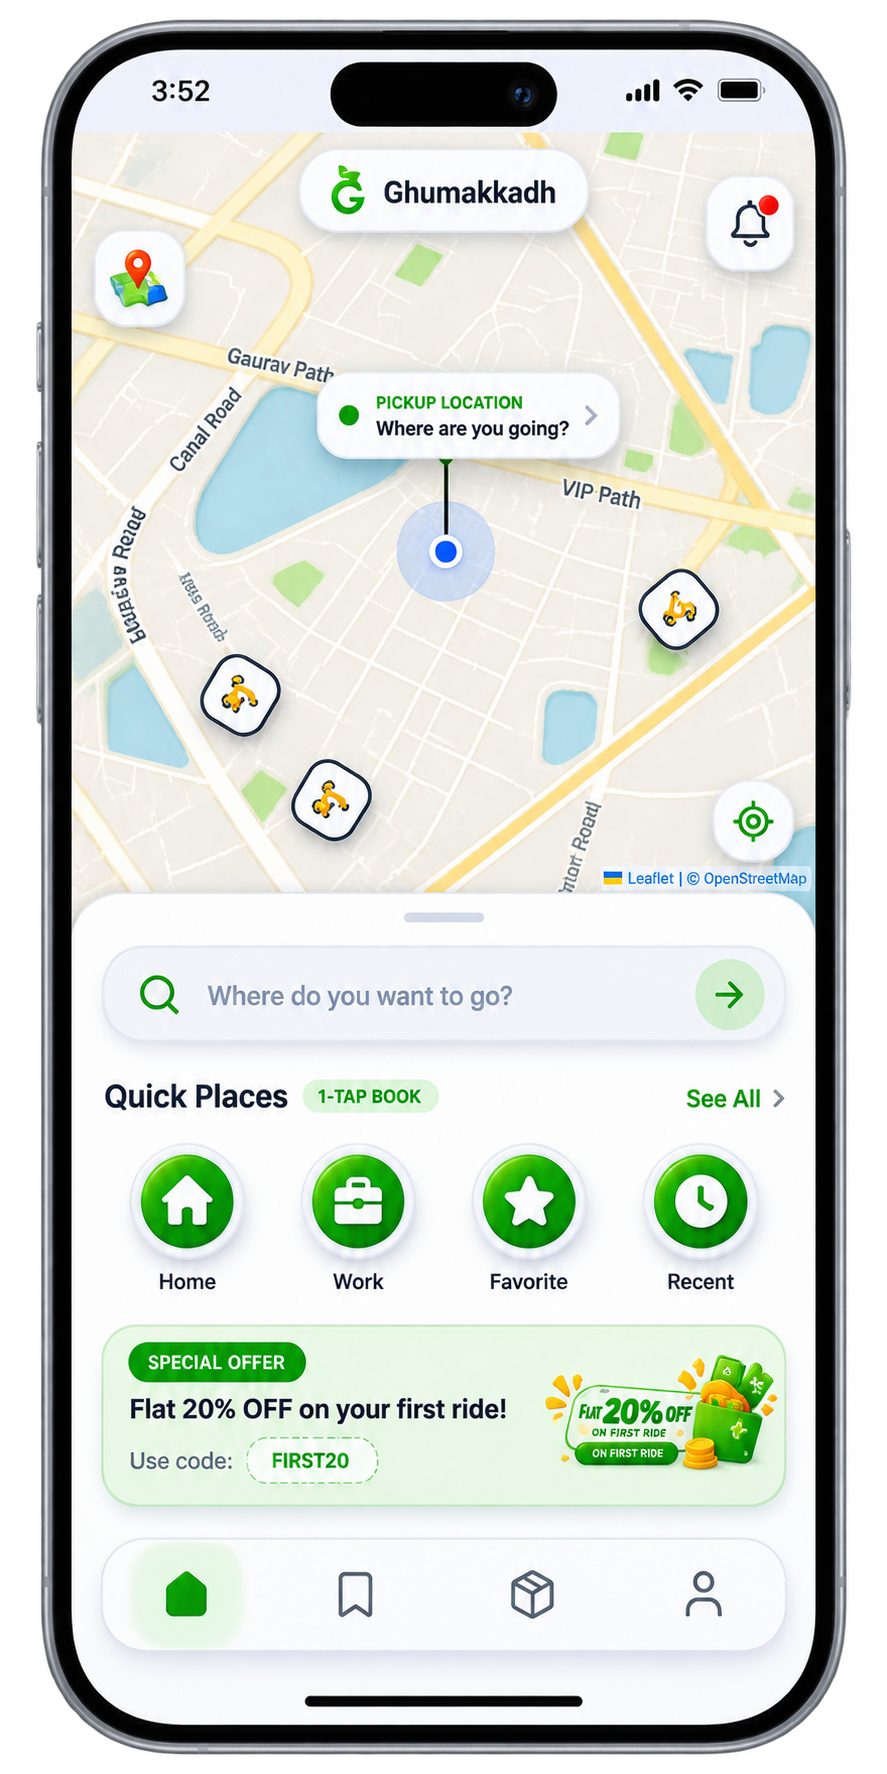
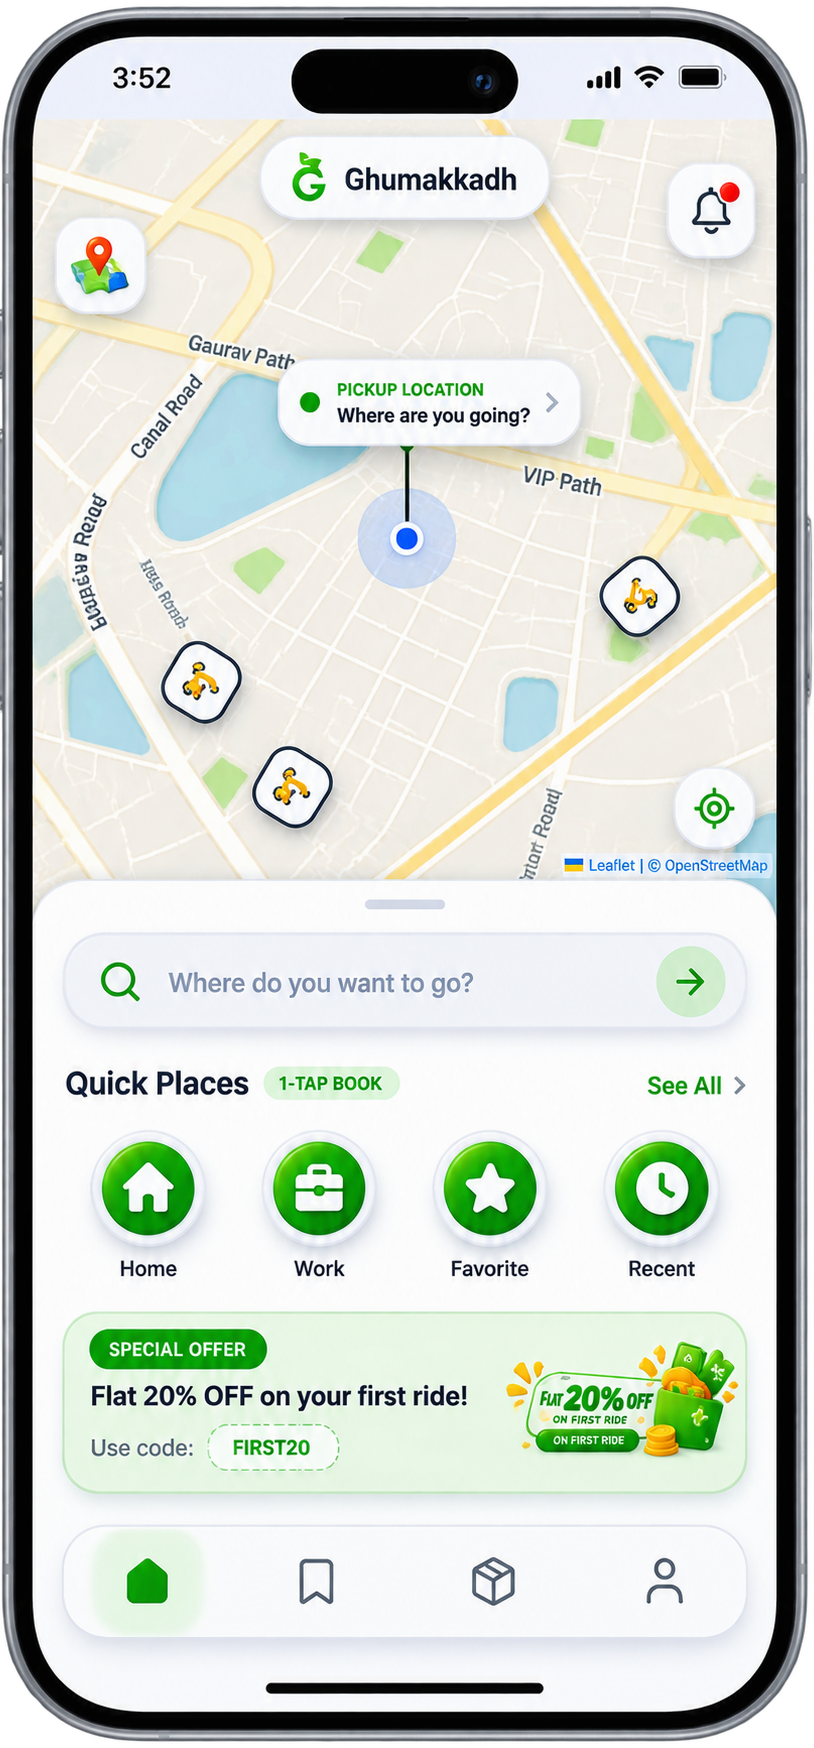
feat: add products page, product components, and dynamic product details routes

diff --git a/src/components/landing/Product.tsx b/src/components/landing/Product.tsx
@@ -571,6 +571,91 @@ export function ProductSection() {
             </div>
             <HoverOverlay href="https://play.google.com/store/apps/details?id=com.miracal" />
           </motion.div>
+
+          {/* Card 13: TruckBharat Mobile App */}
+          <motion.div
+            initial={{ opacity: 0, y: 20 }}
+            whileInView={{ opacity: 1, y: 0 }}
+            viewport={{ once: true }}
+            transition={{ delay: 0.4 }}
+            className="lg:col-span-1 relative bg-white dark:bg-zinc-900/90 border border-zinc-200/60 dark:border-white/10 rounded-[2rem] p-6 sm:p-8 pb-0 sm:pb-0 flex flex-col overflow-hidden group hover:shadow-xl transition-all duration-500"
+          >
+            <div className="flex flex-wrap justify-between items-center mb-6 sm:mb-8 relative z-10 gap-4">
+              <div className="flex items-center gap-4">
+                <Image src="/truckbharat_logo.png" alt="TruckBharat Logo" width={48} height={48} className="w-12 h-12 object-contain rounded-xl" />
+                <span className="font-bold text-zinc-800 dark:text-zinc-100 text-3xl sm:text-4xl tracking-tight">TruckBharat</span>
+              </div>
+              <a
+                href="https://play.google.com/store/apps/details?id=com.truckbharat"
+                target="_blank"
+                rel="noopener noreferrer"
+                className="flex items-center gap-1 text-zinc-500 dark:text-zinc-400 font-medium text-sm group-hover:text-zinc-900 dark:group-hover:text-white transition-colors cursor-pointer"
+              >
+                Logistics & Freight <ArrowUpRight className="w-4 h-4" />
+              </a>
+            </div>
+
+            {/* Mobile Mockup */}
+            <div className="relative flex justify-center pt-2 pb-2 px-4 mt-0 sm:mt-1">
+              <div className="relative w-[85%] max-w-[320px] flex justify-center group-hover:-translate-y-4 max-lg:group-data-[in-view=true]:-translate-y-4 transition-transform duration-500">
+                <Image
+                  src="/truckbharat_phone.png"
+                  alt="TruckBharat Driver & Shipper App"
+                  width={400}
+                  height={800}
+                  className="w-full h-auto object-contain drop-shadow-2xl rounded-3xl"
+                  unoptimized
+                />
+              </div>
+            </div>
+            <HoverOverlay href="https://play.google.com/store/apps/details?id=com.truckbharat" />
+          </motion.div>
+
+          {/* Card 14: TruckBharat Digital Freight Marketplace */}
+          <motion.div
+            initial={{ opacity: 0, y: 20 }}
+            whileInView={{ opacity: 1, y: 0 }}
+            viewport={{ once: true }}
+            transition={{ delay: 0.5 }}
+            className="lg:col-span-2 relative bg-white dark:bg-zinc-900/90 border border-zinc-200/60 dark:border-white/10 rounded-[2rem] p-6 sm:p-8 flex flex-col justify-between overflow-hidden group hover:shadow-xl transition-all duration-500"
+          >
+            <div className="flex flex-wrap justify-between items-center mb-8 relative z-10 gap-4">
+              <div className="flex items-center gap-4">
+                <Image src="/truckbharat_logo.png" alt="TruckBharat Logo" width={48} height={48} className="w-12 h-12 object-contain rounded-xl" />
+                <span className="font-bold text-zinc-800 dark:text-zinc-100 text-3xl sm:text-4xl tracking-tight">TruckBharat</span>
+              </div>
+              <a
+                href="https://truckbharat.hindustaan.tech/"
+                target="_blank"
+                rel="noopener noreferrer"
+                className="flex items-center gap-1 text-zinc-500 dark:text-zinc-400 font-medium text-sm group-hover:text-zinc-900 dark:group-hover:text-white transition-colors cursor-pointer"
+              >
+                Digital Freight Platform <ArrowUpRight className="w-4 h-4" />
+              </a>
+            </div>
+
+            {/* Showcase Banner Graphic */}
+            <div className="relative flex w-full rounded-2xl bg-zinc-100 dark:bg-zinc-800 border border-zinc-200 dark:border-zinc-700 overflow-hidden shadow-lg group-hover:-translate-y-2 max-lg:group-data-[in-view=true]:-translate-y-2 transition-transform duration-500 flex-col">
+              {/* Browser/Window Top Bar */}
+              <div className="h-6 bg-zinc-200/50 dark:bg-zinc-800 flex items-center px-3 gap-1.5 border-b border-zinc-200 dark:border-zinc-700 shrink-0">
+                <div className="w-2.5 h-2.5 rounded-full bg-[#ff5f56]"></div>
+                <div className="w-2.5 h-2.5 rounded-full bg-[#ffbd2e]"></div>
+                <div className="w-2.5 h-2.5 rounded-full bg-[#27c93f]"></div>
+              </div>
+              {/* Banner Area */}
+              <div className="bg-white dark:bg-zinc-900 relative w-full flex">
+                <Image
+                  src="/truckbharat.png"
+                  alt="TruckBharat Digital Freight Platform"
+                  width={1200}
+                  height={600}
+                  className="w-full h-auto object-cover object-top"
+                  unoptimized
+                />
+              </div>
+            </div>
+            <HoverOverlay href="https://play.google.com/store/apps/details?id=com.truckbharat" />
+          </motion.div>
         </div>
       </div>
     </section>

diff --git a/src/app/products/[id]/page.tsx b/src/app/products/[id]/page.tsx
@@ -28,7 +28,9 @@ import {
   Map,
   Navigation,
   Search,
-  MapPin
+  MapPin,
+  Truck,
+  Languages
 } from "lucide-react";
 import Image from "next/image";
 import Link from "next/link";
@@ -59,7 +61,9 @@ const iconMap: Record<string, any> = {
   Map,
   Navigation,
   Search,
-  MapPin
+  MapPin,
+  Truck,
+  Languages
 };
 
 const fadeUp: Variants = {
@@ -133,7 +137,7 @@ export default function SolutionDetailPage({ params }: { params: Promise<{ id: s
             </motion.p>
 
             <motion.div variants={fadeUp} className="flex flex-wrap gap-4 mt-2">
-              {solution.projectUrl && (
+              {solution.projectUrl && solution.projectUrl !== "#" && (
                 <Link
                   href={solution.projectUrl}
                   target="_blank"
@@ -155,7 +159,7 @@ export default function SolutionDetailPage({ params }: { params: Promise<{ id: s
                   <svg className="w-4 h-4" viewBox="0 0 512 512" fill="currentColor">
                     <path d="M325.3 234.3L104.6 13l280.8 161.2-60.1 60.1zM47 0C34 6.8 25.3 19.2 25.3 35.3v441.3c0 16.1 8.7 28.5 21.7 35.3l256.6-256L47 0zm425.2 225.6l-58.9-34.1-65.7 64.5 65.7 64.5 60.1-34.1c18-14.3 18-46.5-1.2-60.8zM104.6 499l280.8-161.2-60.1-60.1L104.6 499z" />
                   </svg>
-                  <span>{solution.title}</span>
+                  <span>Google Play</span>
                   <ExternalLink className="w-4 h-4 group-hover:translate-x-0.5 group-hover:-translate-y-0.5 transition-transform" />
                 </Link>
               )}

diff --git a/src/app/products/page.tsx b/src/app/products/page.tsx
@@ -138,8 +138,12 @@ export default function SolutionsPage() {
                     className="object-contain transition-transform duration-700 p-6 group-hover:scale-105"
                   />
                   <div className="absolute bottom-4 left-4 z-20">
-                    <div className="p-2.5 bg-white dark:bg-zinc-800 border border-zinc-200 dark:border-zinc-700 shadow-xs rounded-xl">
-                      <School className="w-5 h-5 text-zinc-800 dark:text-zinc-200" />
+                    <div className="p-2 bg-white dark:bg-zinc-800 border border-zinc-200 dark:border-zinc-700 shadow-xs rounded-xl flex items-center justify-center">
+                      {item.logo ? (
+                        <Image src={item.logo} alt={item.title} width={24} height={24} className="w-6 h-6 object-contain rounded-md" />
+                      ) : (
+                        <School className="w-5 h-5 text-zinc-800 dark:text-zinc-200" />
+                      )}
                     </div>
                   </div>
                 </div>

diff --git a/src/components/landing/OurProductsSection.tsx b/src/components/landing/OurProductsSection.tsx
@@ -71,6 +71,15 @@ const ourProducts: ProductItem[] = [
     isExternal: true,
   },
   {
+    id: "truckbharat",
+    name: "TruckBharat",
+    category: "Digital Freight Platform",
+    description: "Next-gen digital freight & logistics ecosystem connecting Shippers, Transporters, and Drivers with verified fleets and live GPS tracking.",
+    logo: "/truckbharat_logo.png",
+    href: "https://play.google.com/store/apps/details?id=com.truckbharat",
+    isExternal: true,
+  },
+  {
     id: "hindustaan-os",
     name: "Hindustaan OS",
     category: "Enterprise Suite",
